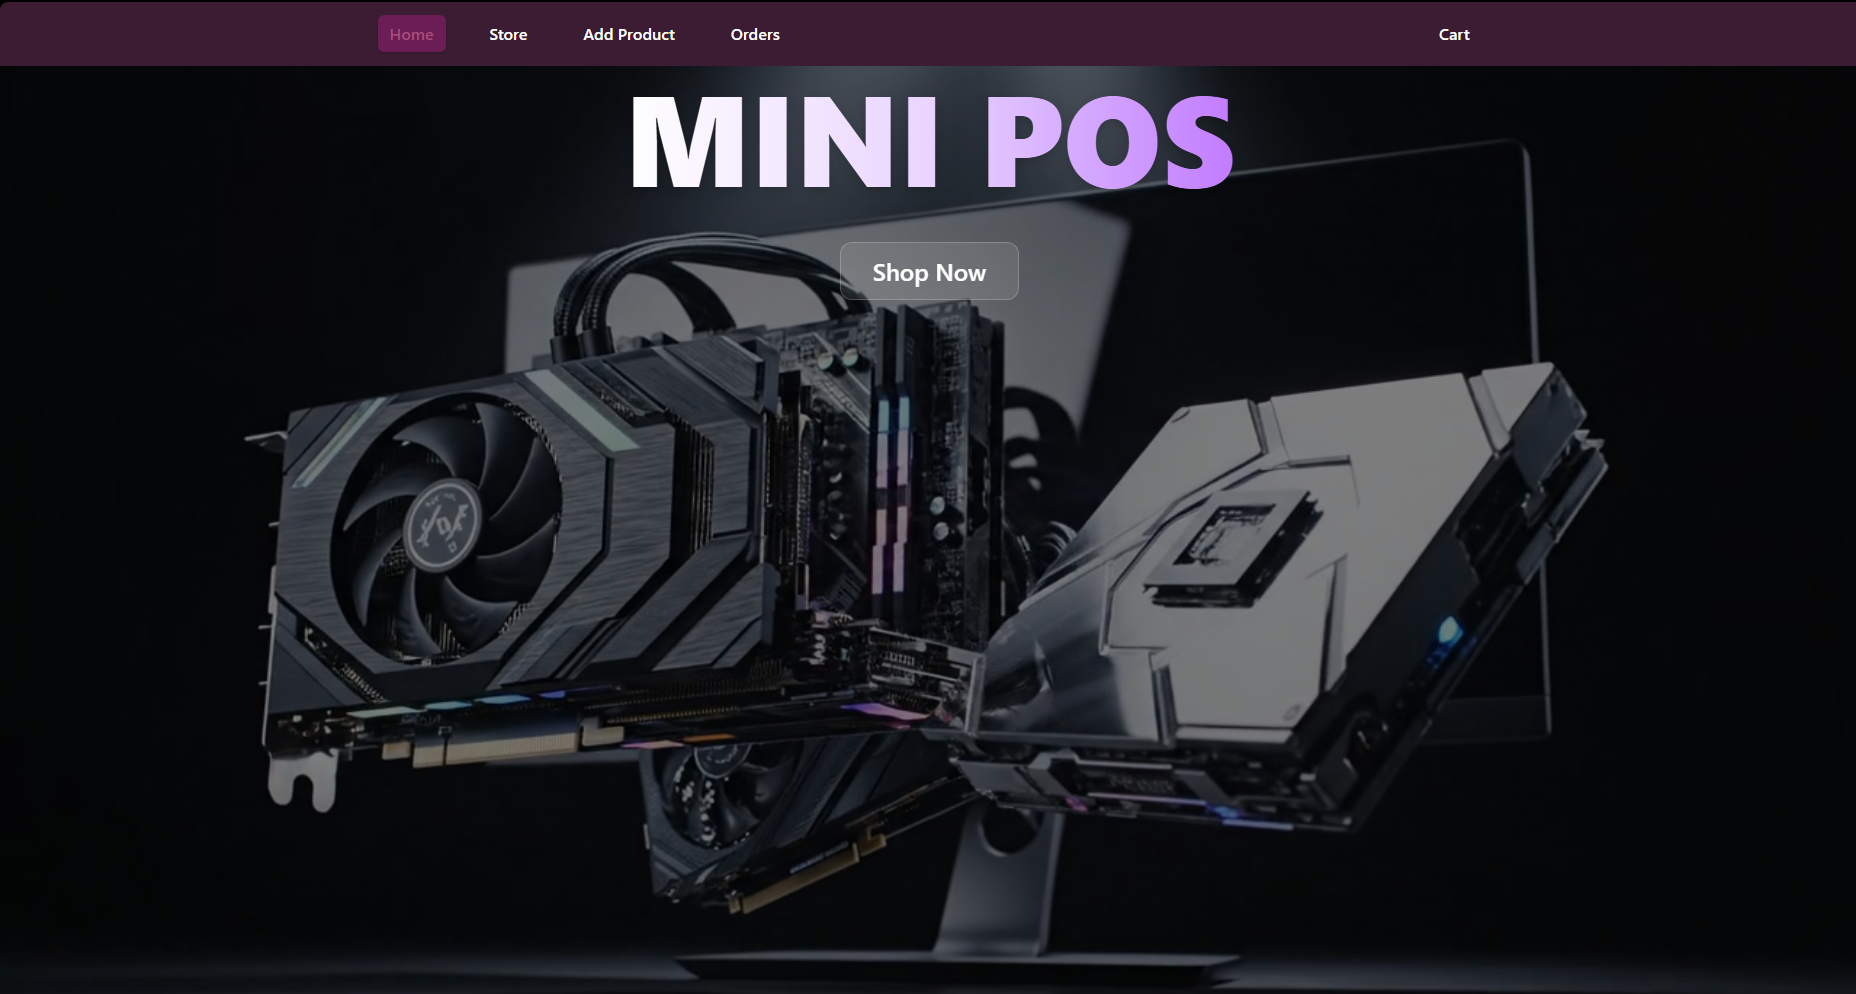
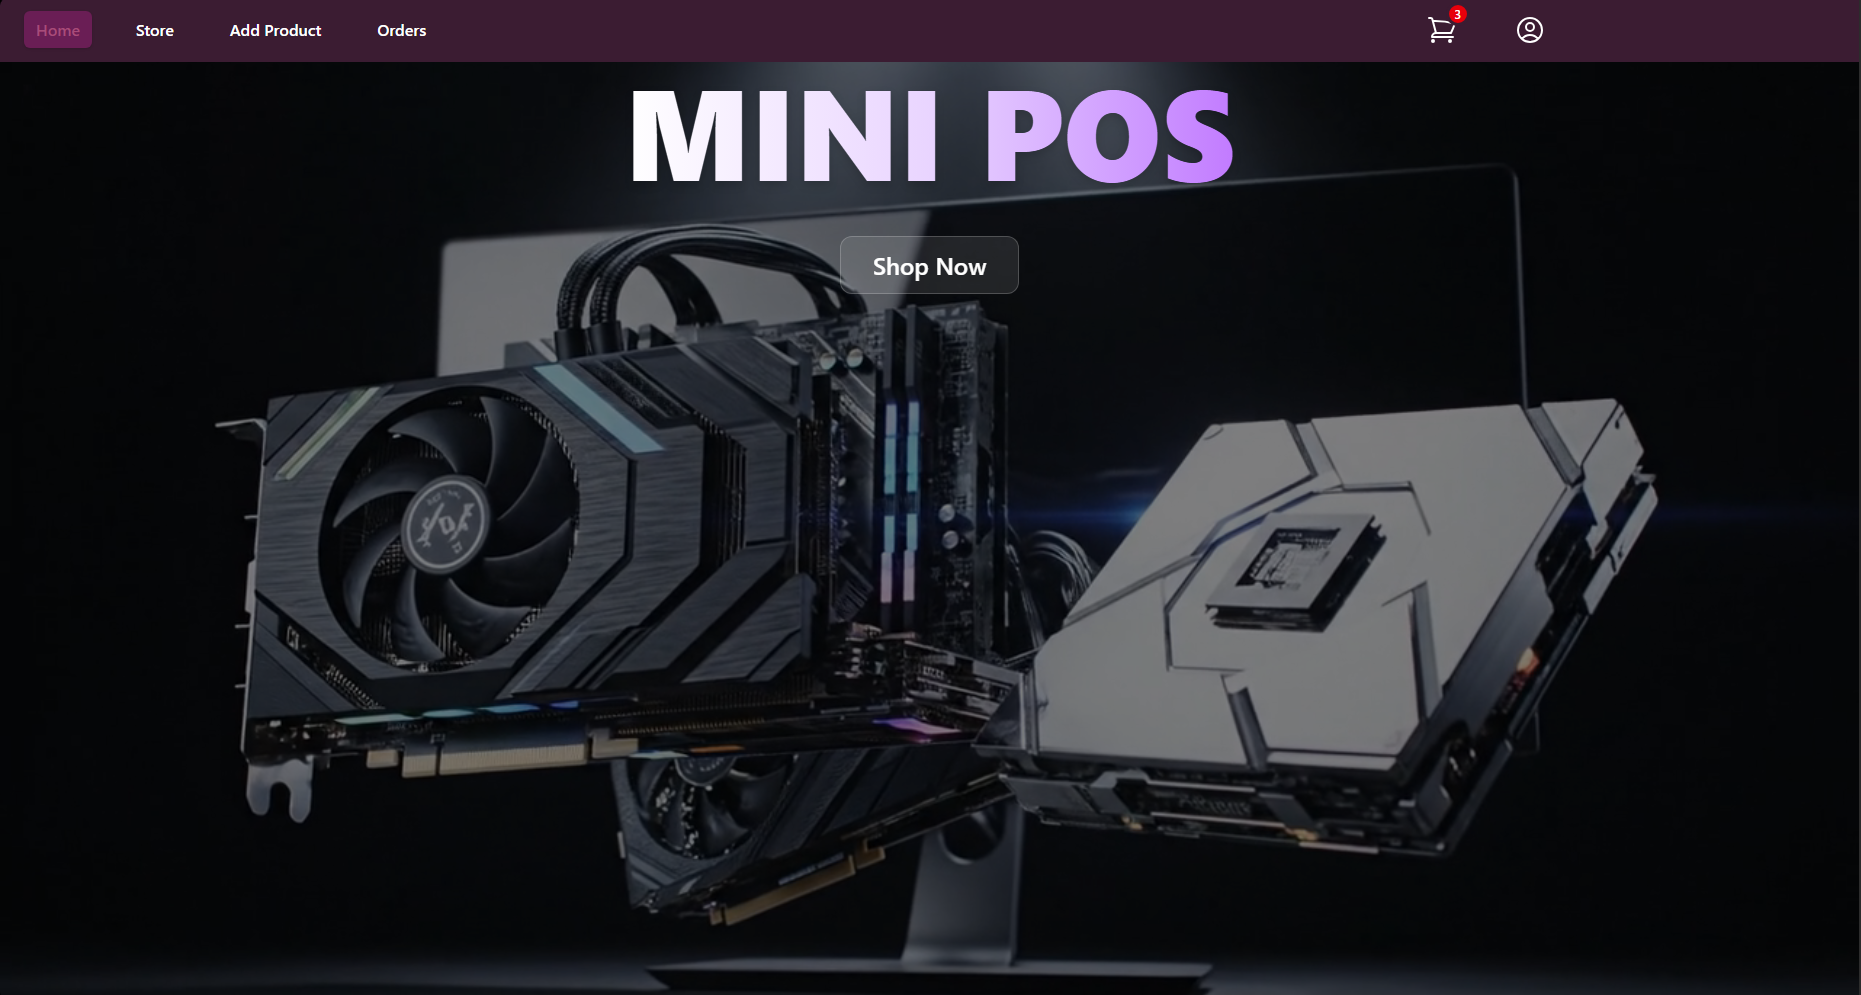
add new image

Changed region(s): [[0.0, 0.0, 1.0, 1.0], [0.75, 0.0, 0.8438, 0.0312]]

diff --git a/frontend/src/styles/components.css b/frontend/src/styles/components.css
@@ -85,7 +85,7 @@
 }
 
 .animate-fade-in-up {
-  animation: fadeInUp 1s ease-out forwards;
+  animation: fadeInUp 0.5s ease-out forwards;
 }
 
 @keyframes fadeIn {
